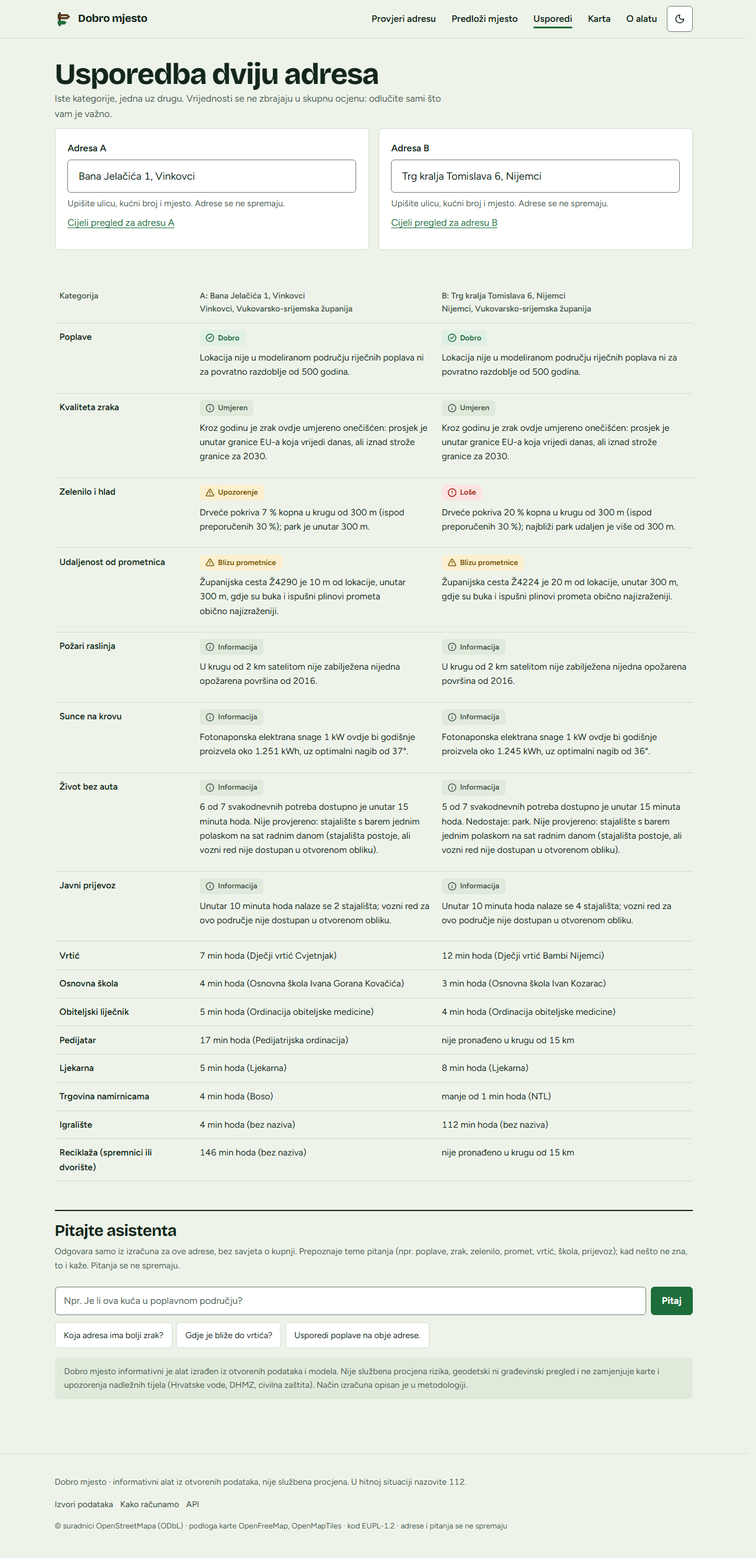
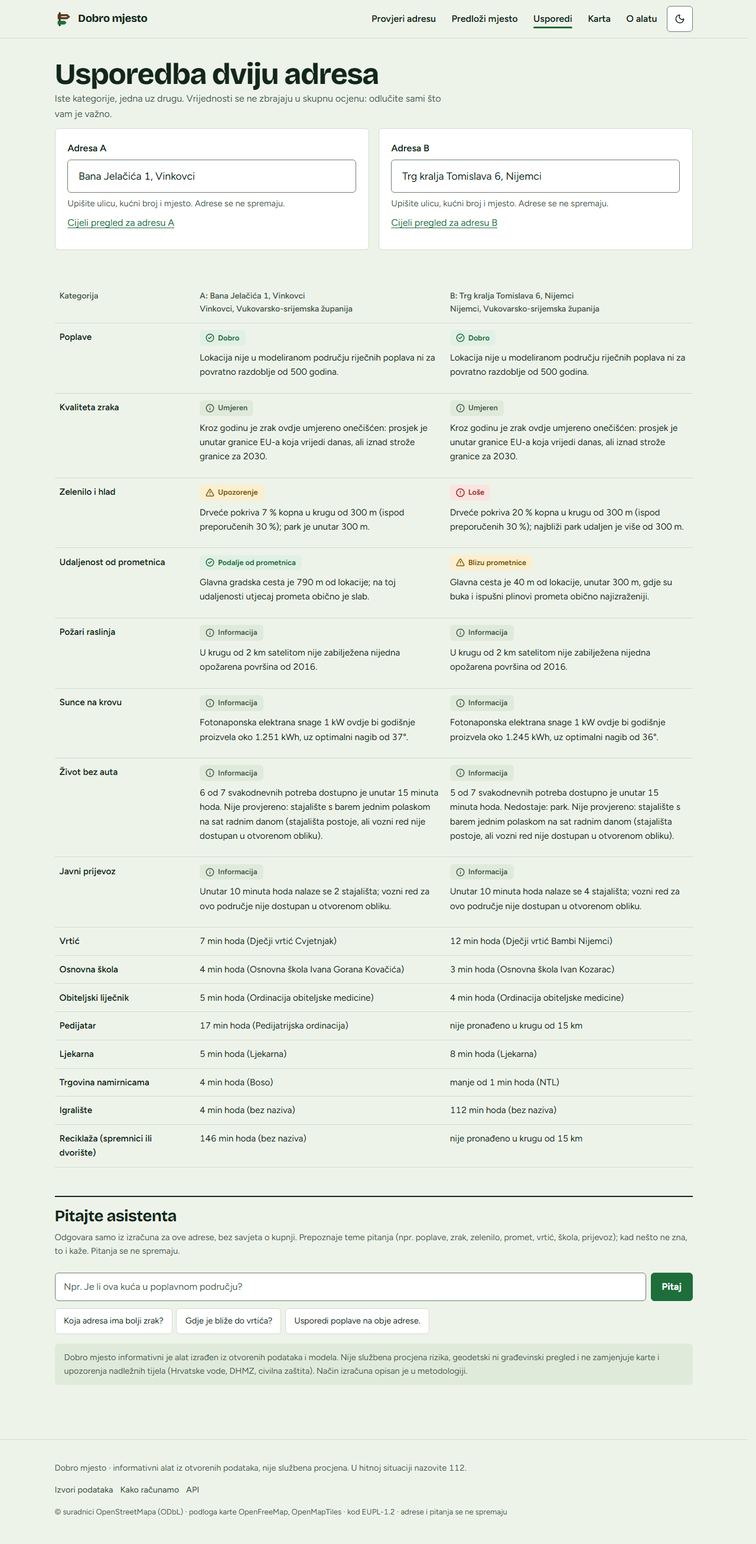
fix(traffic): count no county roads and measure settlements over all their addresses
Split led almost every profile because its centre lies in the pedestrian old
town (100/100), while 79 % of settlements were "near a major road" because a
county road runs through nearly every village. County roads (OSM secondary
with a Ž number) no longer count; for settlements the band is computed for
every DGU address (1,683,411) and the sub-score is their mean. The address
report keeps its own point. Goldens updated, compare table is a focusable
scroll region.

diff --git a/frontend/src/pages/AboutPage.tsx b/frontend/src/pages/AboutPage.tsx
@@ -90,8 +90,9 @@ export function AboutPage() {
               <tr>
                 <th scope="row">Udaljenost od prometnica</th>
                 <td>
-                  Zračna udaljenost od lokacije do autocesta, brzih, državnih i županijskih cesta te pruga
-                  (OpenStreetMap). Ne mjerimo buku; to je zamjenski pokazatelj.
+                  Zračna udaljenost od lokacije do autocesta, brzih, državnih i glavnih gradskih cesta te
+                  pruga (OpenStreetMap); županijske ceste s oznakom Ž se ne broje. Za naselje se
+                  računa za svaku adresu. Ne mjerimo buku; to je zamjenski pokazatelj.
                 </td>
                 <td>
                   Do 300 m: blizu prometnice; 300–500 m: rub zone prometa; dalje: podalje od

diff --git a/frontend/src/pages/ComparePage.tsx b/frontend/src/pages/ComparePage.tsx
@@ -39,7 +39,9 @@ function CompareTable({ a, b, ra, rb }: { a: Point; b: Point; ra: Report; rb: Re
   const dailyValue = (r: Report, key: string) =>
     cat(r, 'daily')?.values.find((v) => v.key === `nearest_${key}`)
   return (
-    <div style={{ overflowX: 'auto' }}>
+    // A scrollable region must be reachable by keyboard (axe: scrollable-region-focusable).
+    // eslint-disable-next-line jsx-a11y/no-noninteractive-tabindex -- see the line above
+    <div className="table-scroll" role="region" aria-label="Tablica usporedbe" tabIndex={0}>
       <table className="compare-table">
         <caption className="visually-hidden">Usporedba dviju adresa po kategorijama</caption>
         <thead>

diff --git a/backend/ingest/settlement_traffic.py b/backend/ingest/settlement_traffic.py
@@ -1,0 +1,117 @@
+"""Distance from major roads for whole settlements, over every DGU address.
+
+One point (the settlement centre) does not describe a town: the centre of Split lies in
+the pedestrian old town, while most of its people live along busy roads, and the centre
+of almost every village lies on the road through it. So for the map and "Predloži
+mjesto" every DGU address in the settlement gets the same band as an address report
+(analysis/environment.py: up to 300 m, 300–500 m, beyond 500 m from a motorway,
+expressway, state road or main city street), and the settlement gets the shares of its
+addresses in each band and the mean of their sub-scores. Settlements without addresses
+keep the value at their centre.
+
+Output: data/processed/settlement_traffic.parquet
+  code, addresses, near_share, edge_share, far_share, score_noise
+"""
+
+from __future__ import annotations
+
+import json
+
+import numpy as np
+import pandas as pd
+import pyarrow as pa
+import pyarrow.parquet as pq
+from shapely import STRtree, points
+
+from analysis.environment import TRAFFIC_BANDS, is_traffic_road
+from analysis.score import TRAFFIC_POINTS
+from app.geo import to_htrs_arrays
+from app.layers import load_lines
+from ingest.common import processed_dir, record_source
+
+NEAR_M = float(TRAFFIC_BANDS[0][0] or 300.0)
+EDGE_M = float(TRAFFIC_BANDS[1][0] or 500.0)
+
+
+def address_distances(lon: np.ndarray, lat: np.ndarray) -> np.ndarray:
+    """Straight-line distance in metres from each point to the nearest major road
+    (capped at EDGE_M + 1: only the band matters beyond 500 m)."""
+    lines = load_lines(processed_dir() / "osm_noise_lines.parquet")
+    if lines is None:
+        raise RuntimeError("Nema osm_noise_lines.parquet: pokrenite `make data` (OSM).")
+    roads = [
+        g
+        for g, k, r in zip(lines.geoms, lines.kinds, lines.refs, strict=True)
+        if k != "rail" and is_traffic_road(k, r)
+    ]
+    tree = STRtree(roads)
+    x, y = to_htrs_arrays(lon.astype(np.float64), lat.astype(np.float64))
+    pts = points(x, y)
+    cap = EDGE_M + 1.0
+    dist = np.full(len(pts), cap)
+    idx, d = tree.query_nearest(pts, max_distance=cap, return_distance=True, all_matches=False)
+    # query_nearest returns (input index, tree index) pairs; keep the shortest per point.
+    np.minimum.at(dist, idx[0], d)
+    return dist
+
+
+def run() -> None:
+    d = processed_dir()
+    addresses = pd.read_parquet(d / "addresses.parquet", columns=["settlement_code", "lon", "lat"])
+    addresses = addresses.dropna(subset=["settlement_code"]).assign(real=True)
+    # Settlements without any address are measured at their centre instead.
+    centres = pd.read_parquet(d / "settlements.parquet", columns=["code", "lon", "lat"])
+    centres = centres[~centres["code"].isin(set(addresses["settlement_code"]))]
+    addresses = pd.concat(
+        [addresses, centres.rename(columns={"code": "settlement_code"}).assign(real=False)],
+        ignore_index=True,
+    )
+    dist = address_distances(addresses["lon"].to_numpy(), addresses["lat"].to_numpy())
+    near = dist <= NEAR_M
+    edge = (dist > NEAR_M) & (dist <= EDGE_M)
+    far = dist > EDGE_M
+    points_by_band = np.where(
+        near,
+        TRAFFIC_POINTS["Blizu prometnice"],
+        np.where(edge, TRAFFIC_POINTS["Rub zone prometa"], TRAFFIC_POINTS["Podalje od prometnica"]),
+    )
+    frame = pd.DataFrame(
+        {
+            "code": addresses["settlement_code"].astype(str).to_numpy(),
+            "near": near,
+            "edge": edge,
+            "far": far,
+            "points": points_by_band,
+            "real": addresses["real"].to_numpy(),
+        }
+    )
+    grouped = frame.groupby("code")
+    table = pd.DataFrame(
+        {
+            "addresses": grouped["real"].sum(),
+            "near_share": grouped["near"].mean(),
+            "edge_share": grouped["edge"].mean(),
+            "far_share": grouped["far"].mean(),
+            "score_noise": grouped["points"].mean().round(),
+        }
+    ).reset_index()
+    pq.write_table(
+        pa.Table.from_pandas(table, preserve_index=False), d / "settlement_traffic.parquet"
+    )
+    record_source(
+        "settlement_traffic",
+        title="Udaljenost adresa naselja od velikih prometnica, izračun aplikacije",
+        publisher="izvedeno iz DGU adresa i OpenStreetMapa",
+        url="",
+        license="CC BY 4.0 (izvedeni podaci); ulazni izvori zadržavaju svoje licence",
+        retrieved_at=pd.Timestamp.now(tz="UTC").isoformat(timespec="seconds"),
+        notes=json.dumps({"settlements": len(table), "addresses": int(frame["real"].sum())}),
+    )
+    print(
+        f"prometnice po adresama: {int(frame['real'].sum())} adresa u {len(table)} naselja, "
+        f"blizu prometnice {near.mean():.0%}"
+    )
+
+
+if __name__ == "__main__":
+    run()

diff --git a/backend/analysis/environment.py b/backend/analysis/environment.py
@@ -616,6 +616,19 @@ TRAFFIC_BANDS: list[tuple[float | None, str, Status]] = [
 _COUNTY_REF = re.compile(r"\d{4}")
 
 
+def is_traffic_road(kind: str, ref: str) -> bool:
+    """Roads that count as major traffic: motorways, expressways, state and other primary
+    roads, and secondary roads without a county number (main city streets that used to
+    be county roads). County roads (secondary with a four-digit Ž number) run through
+    almost every village and mostly carry little traffic, so they are left out."""
+    if kind in ("motorway", "trunk", "primary"):
+        return True
+    if kind == "secondary":
+        first = (ref or "").split(";")[0].strip()
+        return not _COUNTY_REF.fullmatch(first)
+    return False
+
+
 def road_name(kind: str, ref: str) -> str:
     """Croatian road class from OSM tags (wiki "Croatia/Ceste"): motorway is an autocesta,
     trunk a brza cesta, primary a državna cesta (ref D…), secondary a županijska cesta
@@ -631,7 +644,7 @@ def road_name(kind: str, ref: str) -> str:
         return f"državna cesta {first}" if first.startswith("D") else "glavna cesta"
     if _COUNTY_REF.fullmatch(first):
         return f"županijska cesta Ž{first}"
-    return "županijska ili glavna gradska cesta" if not first else "važnija cesta"
+    return "glavna gradska cesta" if not first else "važnija cesta"
 
 
 def traffic_band(distance_m: float) -> tuple[str, Status]:
@@ -670,13 +683,15 @@ def noise_category(lon: float, lat: float, layers: Layers) -> Category:
     nearest: dict[str, tuple[float, str]] = {}
     for i in lines.tree.query(origin.buffer(2000.0), predicate="intersects"):
         kind = lines.kinds[int(i)]
+        if kind != "rail" and not is_traffic_road(kind, lines.refs[int(i)]):
+            continue
         group = "rail" if kind == "rail" else "road"
         d = float(lines.geoms[int(i)].distance(origin))
         if group not in nearest or d < nearest[group][0]:
             nearest[group] = (d, road_name(kind, lines.refs[int(i)]))
     values: list[Value] = []
     for group, value_label in (
-        ("road", "Najbliža autocesta, brza, državna ili županijska cesta"),
+        ("road", "Najbliža autocesta, brza, državna ili glavna gradska cesta"),
         ("rail", "Najbliža pruga"),
     ):
         found = nearest.get(group)
@@ -699,7 +714,7 @@ def noise_category(lon: float, lat: float, layers: Layers) -> Category:
     sentences = [
         _traffic_sentence(road[1], road[0])
         if road
-        else "U krugu od 2 km nema autoceste, brze, državne ni županijske ceste."
+        else "U krugu od 2 km nema autoceste, brze, državne ni glavne gradske ceste."
     ]
     if rail and rail[0] <= 500:
         sentences.append(f"Željeznička pruga je {fmt.metres(rail[0])} od lokacije.")
@@ -724,9 +739,9 @@ def noise_category(lon: float, lat: float, layers: Layers) -> Category:
         scales=[scale],
         notes=[
             "Ne mjerimo buku: ovo je procjena prema zračnoj udaljenosti od lokacije (adrese ili "
-            "središta naselja) do osi najbliže autoceste, brze, državne ili županijske ceste "
-            "(u gradovima i bivše županijske ceste, danas glavne gradske ulice) te pruge iz "
-            "OpenStreetMapa. Ostale ulice se ne broje.",
+            "središta naselja) do osi najbliže autoceste, brze, državne ili glavne gradske "
+            "ceste (bivše županijske ceste u gradovima) te pruge iz OpenStreetMapa. "
+            "Županijske ceste s oznakom Ž i ostale ulice se ne broje.",
             "Pojasevi slijede pregled istraživanja Health Effects Institutea (2010.): "
             "onečišćenje od prometa najveće je unutar približno 300 do 500 m od velike "
             "prometnice, a dalje pada na pozadinsku razinu.",

diff --git a/backend/app/finder.py b/backend/app/finder.py
@@ -121,6 +121,14 @@ def profiles() -> pd.DataFrame:
     facilities = d / "settlement_facilities.parquet"
     if facilities.exists():
         df = df.merge(pd.read_parquet(facilities), on="code", how="left")
+    traffic = d / "settlement_traffic.parquet"
+    if traffic.exists():
+        # Distance from major roads over every address of the settlement replaces the
+        # value at its single centre point (ingest/settlement_traffic.py).
+        t = pd.read_parquet(traffic).rename(columns={"score_noise": "score_noise_addr"})
+        df = df.merge(t, on="code", how="left")
+        df["score_noise"] = df["score_noise_addr"].fillna(df["score_noise"])
+        df = df.drop(columns="score_noise_addr")
     return df
 
 
@@ -171,6 +179,13 @@ def _facts(row: pd.Series) -> list[str]:
         facts.append(
             f"Zrak: {AIR_RATINGS.get(row['air_band'], row['air_band']).lower()} "
             f"(PM2,5 {fmt.num(float(row['pm25']), 1)} µg/m³)."
+        )
+    near, far = row.get("near_share"), row.get("far_share")
+    if near is not None and far is not None and pd.notna(near) and pd.notna(far):
+        facts.append(
+            f"Prometnice: {fmt.num(100 * float(near))} % adresa naselja je do 300 m, a "
+            f"{fmt.num(100 * float(far))} % dalje od 500 m od autoceste, brze, državne ili "
+            "glavne gradske ceste."
         )
     if pd.notna(row["needs_15min"]):
         facts.append(f"Pješice do 15 min: {int(row['needs_15min'])} od 7 svakodnevnih potreba.")

diff --git a/backend/tests/test_traffic.py b/backend/tests/test_traffic.py
@@ -1,0 +1,36 @@
+"""Which roads count as major traffic, and the settlement value over its addresses."""
+
+import numpy as np
+import pytest
+
+from analysis.environment import is_traffic_road
+from ingest import settlement_traffic
+
+
+def test_county_roads_do_not_count_but_city_main_streets_do() -> None:
+    assert is_traffic_road("motorway", "A3")
+    assert is_traffic_road("trunk", "D1")
+    assert is_traffic_road("primary", "D2")
+    assert is_traffic_road("primary", "")
+    assert is_traffic_road("secondary", "")  # former county road, now a main city street
+    assert not is_traffic_road("secondary", "4290")  # county road Ž4290
+    assert not is_traffic_road("secondary", "2001;2002")
+    assert not is_traffic_road("tertiary", "")
+
+
+def test_bands_follow_the_report_thresholds() -> None:
+    assert settlement_traffic.NEAR_M == 300.0
+    assert settlement_traffic.EDGE_M == 500.0
+
+
+@pytest.mark.skipif(
+    not (settlement_traffic.processed_dir() / "osm_noise_lines.parquet").exists(),
+    reason="needs processed OSM roads (make data)",
+)
+def test_a_point_on_a_motorway_is_near_and_one_at_sea_is_far() -> None:
+    # A3 near Zagreb (Jankomir interchange) and the open Adriatic.
+    dist = settlement_traffic.address_distances(
+        np.array([15.8817, 15.0]), np.array([45.7961, 43.5])
+    )
+    assert dist[0] <= settlement_traffic.NEAR_M
+    assert dist[1] > settlement_traffic.EDGE_M

diff --git a/backend/app/assistant.py b/backend/app/assistant.py
@@ -185,9 +185,9 @@ EXPLANATIONS: dict[str, str] = {
     ),
     "noise": (
         "Buku ne mjerimo: otvorene karte buke za cijelu Hrvatsku ne postoje. Prikazujemo "
-        "udaljenost od autocesta, brzih, državnih i županijskih cesta te pruga. Do 300 m od velike "
-        "prometnice buka i ispušni plinovi obično su najizraženiji, a dalje od 500 m utjecaj "
-        "je slab (pregled istraživanja Health Effects Institutea, 2010.)."
+        "udaljenost od autocesta, brzih, državnih i glavnih gradskih cesta te pruga. "
+        "Do 300 m od velike prometnice buka i ispušni plinovi obično su najizraženiji, "
+        "a dalje od 500 m utjecaj je slab (pregled istraživanja Health Effects Institutea, 2010.)."
     ),
     "solar": (
         "Procjena dolazi iz alata PVGIS Europske komisije: koliko bi kilovatsati godišnje "

diff --git a/backend/tests/test_environment.py b/backend/tests/test_environment.py
@@ -76,6 +76,6 @@ def test_road_names_follow_croatian_road_classes() -> None:
     assert road_name("primary", "D8;D1") == "državna cesta D8"
     assert road_name("primary", "") == "glavna cesta"
     assert road_name("secondary", "2001") == "županijska cesta Ž2001"
-    assert road_name("secondary", "") == "županijska ili glavna gradska cesta"
+    assert road_name("secondary", "") == "glavna gradska cesta"
     assert road_name("secondary", "R-408") == "važnija cesta"
     assert road_name("rail", "M202") == "željeznička pruga"

diff --git a/backend/ingest/run_all.py b/backend/ingest/run_all.py
@@ -18,6 +18,7 @@ from ingest import (
     recycling,
     registries,
     settlement_profiles,
+    settlement_traffic,
     stations,
     transit,
 )
@@ -36,6 +37,7 @@ STEPS: list[tuple[str, Callable[[], None]]] = [
     ("Spajanje točaka", pois.run),
     ("Profili naselja (treba pokrenutu Valhallu)", settlement_profiles.run),
     ("Visoka učilišta, bolnice i studentski domovi (MZOM, OSM)", facilities.run),
+    ("Udaljenost adresa naselja od prometnica (DGU, OSM)", settlement_traffic.run),
 ]
 
 

diff --git a/README.md b/README.md
@@ -32,7 +32,7 @@ Izvještaj počinje **iskaznicom mjesta**: naziv i adresa, dvije do tri rečenic
    - **poplave:** je li lokacija ili njezina okolica od 100 m u modeliranom poplavnom području za povratna razdoblja od 10, 100 i 500 godina, razumljivo izraženo kao vjerojatnost barem jedne poplave u 30 godina (trajanje stambenog kredita), s poveznicom na službene karte Hrvatskih voda;
    - **zrak:** jedna ocjena (vrlo dobar, dobar, umjeren, loš) i rečenica o tome što znači kroz godinu; godišnji PM2,5 i NO2 s granicama Svjetske zdravstvene organizacije i EU-a u detaljima;
    - **zelenilo i hlad:** udio drveća, zelenih i izgrađenih površina kopna u krugu od 300 m i najbliži park, prema pravilu 3-30-300 (temperaturu ne mjerimo; drveće je pokazatelj hlada);
-   - **udaljenost od prometnica:** udaljenost od autocesta, brzih, državnih i županijskih cesta (u gradovima i glavnih gradskih ulica) te pruga, s vrstom i oznakom ceste (npr. državna cesta D8) i pojasevima 300/500 m (procjena, ne mjerenje buke);
+   - **udaljenost od prometnica:** udaljenost od autocesta, brzih i državnih cesta te glavnih gradskih ulica i pruga, s vrstom i oznakom ceste (npr. državna cesta D8) i pojasevima 300/500 m (procjena, ne mjerenje buke); županijske ceste s oznakom Ž se ne broje, a za naselje (karta, „Predloži mjesto”) računa se udio svih adresa u svakom pojasu;
    - **požari raslinja:** opožarene površine u krugu od 2 km od 2016. (Copernicus EFFIS);
    - **sunce na krovu:** procijenjena godišnja proizvodnja solarne elektrane po kilovatu (JRC PVGIS).
 2. **Život bez auta:**
@@ -65,11 +65,11 @@ Usporedba dviju adresa javnih ustanova u Vukovarsko-srijemskoj županiji. Izrač
 | Poplave | **Dobro:** izvan modeliranih područja za 10, 100 i 500 godina, i u krugu od 100 m | **Dobro:** isto |
 | Zrak (godišnji prosjek 2024.) | **Umjeren:** PM2,5 18,2 µg/m³ (unutar današnje granice EU-a od 25, iznad granice za 2030. od 10), NO2 17,5 µg/m³ (niska razina) | **Umjeren:** PM2,5 18,6 µg/m³, NO2 16,5 µg/m³ |
 | Zelenilo i hlad (300 m) | **Upozorenje:** drveće 7 %, izgrađeno 90 %; park 2 min hoda | **Loše:** drveće 20 %; najbliži park udaljen 6,1 km |
-| Udaljenost od prometnica | **Blizu prometnice:** županijska cesta Ž4290, 10 m; pruga 1,4 km | **Blizu prometnice:** županijska cesta Ž4224, 20 m |
+| Udaljenost od prometnica | **Podalje od prometnica:** najbliža velika cesta 790 m (glavna gradska cesta); pruga 1,4 km. Županijska cesta Ž4290 uz zgradu se od 8. 11. ne broji | **Blizu prometnice:** glavna cesta, 40 m |
 | Sunce na krovu | oko 1.251 kWh po kWp godišnje, nagib 37° | oko 1.245 kWh po kWp godišnje, nagib 36° |
 | Život bez auta | 6 od 7 potreba unutar 15 min; stajalište s polascima nije provjereno (nema otvorenog voznog reda) | 5 od 7; nedostaje park; stajalište nije provjereno |
 | Najbliži vrtić / škola / liječnik | 7 / 4 / 5 min hoda | 12 / 3 / 4 min hoda |
-| Skor za život (profil „Općenito”) | 67 | 60 |
+| Skor za život (profil „Općenito”) | 77 | 60 |
 
 Isti izračun dobiva se pozivom `GET /api/report?lat=45.288186&lon=18.805681` (Vinkovci) i `GET /api/report?lat=45.140273&lon=19.034942` (Nijemci). Svih šest demo adresa nalazi se u [scripts/demo_addresses.json](scripts/demo_addresses.json), a njihovi rezultati provjeravaju se zlatnim testovima.
 
@@ -271,7 +271,7 @@ Cijeli popis vodi se u [docs/KVALITETA_PODATAKA.md](docs/KVALITETA_PODATAKA.md).
 - Ovo je informativni alat, a ne službena procjena rizika, geodetski ni građevinski pregled. Ne zamjenjuje karte i upozorenja Hrvatskih voda, DHMZ-a i civilne zaštite.
 - Karte poplava su modelirane i obuhvaćaju samo riječne poplave većih vodotoka (bez bujica i poplava mora). Lokacija izvan modeliranog područja ne znači da rizika nema.
 - Kvaliteta zraka prikazuje se kao godišnji prosjek modelirane karte na mreži od 1 km, a ne kao mjerenje na samoj adresi.
-- „Udaljenost od prometnica” je procjena, a ne mjerenje buke: strateške karte buke EEA-e nemaju otvorenu licencu, pa ih samo povezujemo.
+- „Udaljenost od prometnica” je procjena, a ne mjerenje buke: strateške karte buke EEA-e nemaju otvorenu licencu, pa ih samo povezujemo. Županijske ceste (Ž) se ne broje jer kroz gotovo svako selo prolazi neka; zato se ni prometnija županijska cesta kroz središte grada (npr. Ž4290 u Vinkovcima) ne vidi kao prometnica.
 - Karta zraka prikazuje pozadinsku razinu; uz prometne ulice NO2 može biti znatno viši (provjera uz službene postaje u [docs/METODOLOGIJA.md](docs/METODOLOGIJA.md)). ML model nije ušao u aplikaciju jer nije bio bolji za obje tvari ([docs/ML.md](docs/ML.md)).
 - „Predloži mjesto za život” računa za središte naselja s najmanje 200 stanovnika, bez sunca na krovu; za konkretnu adresu treba otvoriti izvještaj.
 - Karta Hrvatske boji svih 6.759 naselja prema vrijednosti u središtu naselja, a ne za svaku kuću u njemu; za konkretnu adresu kartica nudi puni izvještaj.

diff --git a/docs/METODOLOGIJA.md b/docs/METODOLOGIJA.md
@@ -132,7 +132,7 @@ Vrijednosti iz aplikacije (EEA karta za 2024.) usporedili smo s godišnjim prosj
 
 ## Udaljenost od prometnica (procjena; ranije „Promet u blizini” i „Buka”)
 
-- **Podaci:** ceste `highway=motorway|trunk|primary|secondary` i pruge (`railway=rail`, bez sporednih kolosijeka) iz OpenStreetMapa. Ostale ulice se ne broje.
+- **Podaci:** ceste `highway=motorway|trunk|primary` i `secondary` bez županijske oznake (glavne gradske ulice) te pruge (`railway=rail`, bez sporednih kolosijeka) iz OpenStreetMapa. Županijske ceste (`secondary` s četveroznamenkastom oznakom Ž) i ostale ulice se od 8. 11. 2026. ne broje: kroz gotovo svako selo prolazi neka županijska cesta, pa je 79 % naselja bilo „blizu prometnice” i podatak nije razlikovao mirna mjesta od prometnih.
 - **Vrsta ceste** prema hrvatskim pravilima označavanja u OSM-u (wiki „Croatia/Ceste”):
 
 | OSM | U izvještaju | Primjer |
@@ -141,8 +141,8 @@ Vrijednosti iz aplikacije (EEA karta za 2024.) usporedili smo s godišnjim prosj
 | `trunk` | brza cesta i oznaka | brza cesta D1 |
 | `primary` s oznakom D | državna cesta i oznaka | državna cesta D8 |
 | `primary` bez oznake D | glavna cesta | |
-| `secondary` s četveroznamenkastom oznakom | županijska cesta (Ž i oznaka) | županijska cesta Ž2001 |
-| `secondary` bez oznake | županijska ili glavna gradska cesta (bivše županijske ceste u gradovima) | |
+| `secondary` s četveroznamenkastom oznakom | ne broji se (županijska cesta) | županijska cesta Ž2001 |
+| `secondary` bez oznake | glavna gradska cesta (bivše županijske ceste u gradovima) | |
 
   U podacima 19.042 dionice `primary` imaju oznaku D, a 16.463 dionice `secondary` županijsku oznaku; 3.910 dionica `secondary` nema oznaku, uglavnom u gradovima.
 - **Izračun:** zračna udaljenost od lokacije (adrese ili središta naselja) do najbliže točke osi takve ceste i do najbliže pruge, do 2 km. Buku ne mjerimo; udaljenost je zamjenski pokazatelj, vrste „procjena”. Za središta naselja udaljenost je često 0 m jer OSM čvor naselja leži na samoj cesti; za adresu uz cestu nekoliko je metara (točka adrese je na zgradi).
@@ -158,7 +158,8 @@ Vrijednosti iz aplikacije (EEA karta za 2024.) usporedili smo s godišnjim prosj
 - **Pruga:** navodi se opisno ako je do 500 m. Pregled HEI-ja odnosi se na cestovni promet, pa pruga ne mijenja status.
 - **Kontekst:** smjernice WHO-a za buku okoliša (2018.) preporučuju cestovni promet ispod 53 dB Lden i 45 dB Lnight (https://iris.who.int/handle/10665/279952). Strateške karte buke EEA-e nemaju otvorenu licencu, pa ih samo povezujemo.
 - **Smjer podskora:** veći broj znači manje prometa. 100 je dalje od 500 m od takve ceste, 60 od 300 do 500 m, a 25 do 300 m. Naziv kategorije od 6. 11. 2026. je „Udaljenost od prometnica”, da „100/100” ne zvuči kao „mnogo prometa”.
-- **Popis „Predloži mjesto” i izvještaj:** popis računa za središte naselja, a izvještaj za odabranu adresu, pa se brojke mogu razlikovati (Split: središte 530 m od državne ceste, adresa uz tu cestu nekoliko metara).
+- **Naselje (karta i „Predloži mjesto”):** jedna točka ne opisuje naselje (središte Splita je u pješačkoj staroj jezgri, a središte gotovo svakog sela na cesti kroz selo), pa se za svako naselje računa pojas za **svaku adresu DGU-a** u njemu (1.683.411 adresa, `ingest/settlement_traffic.py`). Podskor naselja je prosjek podskorova adresa (100, 60 ili 25), a uz prijedlog piše koliki udio adresa je do 300 m i koliki dalje od 500 m od velike prometnice. Naselja bez adresa (17) zadržavaju vrijednost u središtu. Izvještaj za adresu i dalje računa za tu adresu.
+- **Ograničenje:** prometnija županijska cesta kroz središte grada (npr. Ž4290 u Vinkovcima) ne broji se kao prometnica; buku i broj vozila ne mjerimo.
 - Zašto i `secondary`: vidi [ODLUKE.md](ODLUKE.md).
 
 ## Požari raslinja

diff --git a/PROGRESS.md b/PROGRESS.md
@@ -119,5 +119,6 @@ Ako ponestane vremena, režem ovim redom:
     - **novi izvori:** MZOM „Ustanove iz sustava visokog obrazovanja” i „Studijski programi visokih učilišta” (data.gov.hr, Otvorena dozvola; 28 mjesta, svih 28 spareno s naseljima DGU-a), OSM opće i kliničke bolnice (35), studentski domovi (21) i studentske menze (4); planirana optika nema otvoreni skup pa se ne boduje;
     - **profili naselja** dobili minute hoda do najbližeg mjesta svake vrste (ponovni izračun 783 s, svih 6.759 naselja s mrežom hoda, postojeće vrijednosti nepromijenjene);
     - **čarobnjak:** uz svaki profil piše što zahtijeva, uz prijedlog „Zašto je predloženo” s vrijednostima i „Što nedostaje”; broj uz prijedlog je „za profil”;
-    - **provjera smislenosti:** top 10 za svaki profil u RH i Osječko-baranjskoj; Student: Split, Zagreb, Osijek, Rijeka, Zadar, Dubrovnik, Pula, Velika Gorica, Varaždin, Zaprešić (u OBŽ Osijek pa njegova predgrađa i Đakovo); testovi pravila u `backend/tests/test_finder_rules.py` (pytest 165, Vitest 64, Playwright 60, `make verify` prolazi);
+    - **provjera smislenosti:** top 10 za svaki profil u RH i Osječko-baranjskoj; Student: Zagreb, Split, Osijek, Rijeka, Zadar, Pula, Dubrovnik, Velika Gorica, Zaprešić, Varaždin (u OBŽ Osijek pa njegova predgrađa i Đakovo); testovi pravila u `backend/tests/test_finder_rules.py` (pytest 165, Vitest 64, Playwright 60, `make verify` prolazi);
+    - **prometnice (8. 11.):** Split je bio prvi gotovo u svakom profilu jer mu je središte u pješačkoj staroj jezgri (100/100), a 79 % naselja bilo je „blizu prometnice” zbog županijske ceste kroz selo. Sad se županijske ceste (Ž) ne broje, a za naselje se računa udio svih 1.683.411 adresa DGU-a po pojasevima (`ingest/settlement_traffic.py`, 19 s); Split ima 48/100 (57 % adresa do 300 m od velike ceste), Zagreb 70, Osijek 46. Zlatni testovi ažurirani (Vinkovci, Nijemci), novi `tests/test_traffic.py`;
     - **usput:** `deploy/Dockerfile.web` kopira `config/`, bez čega se frontend ne bi izgradio u Dockeru (uvozi `profiles.json` i `finder_rules.json`).
